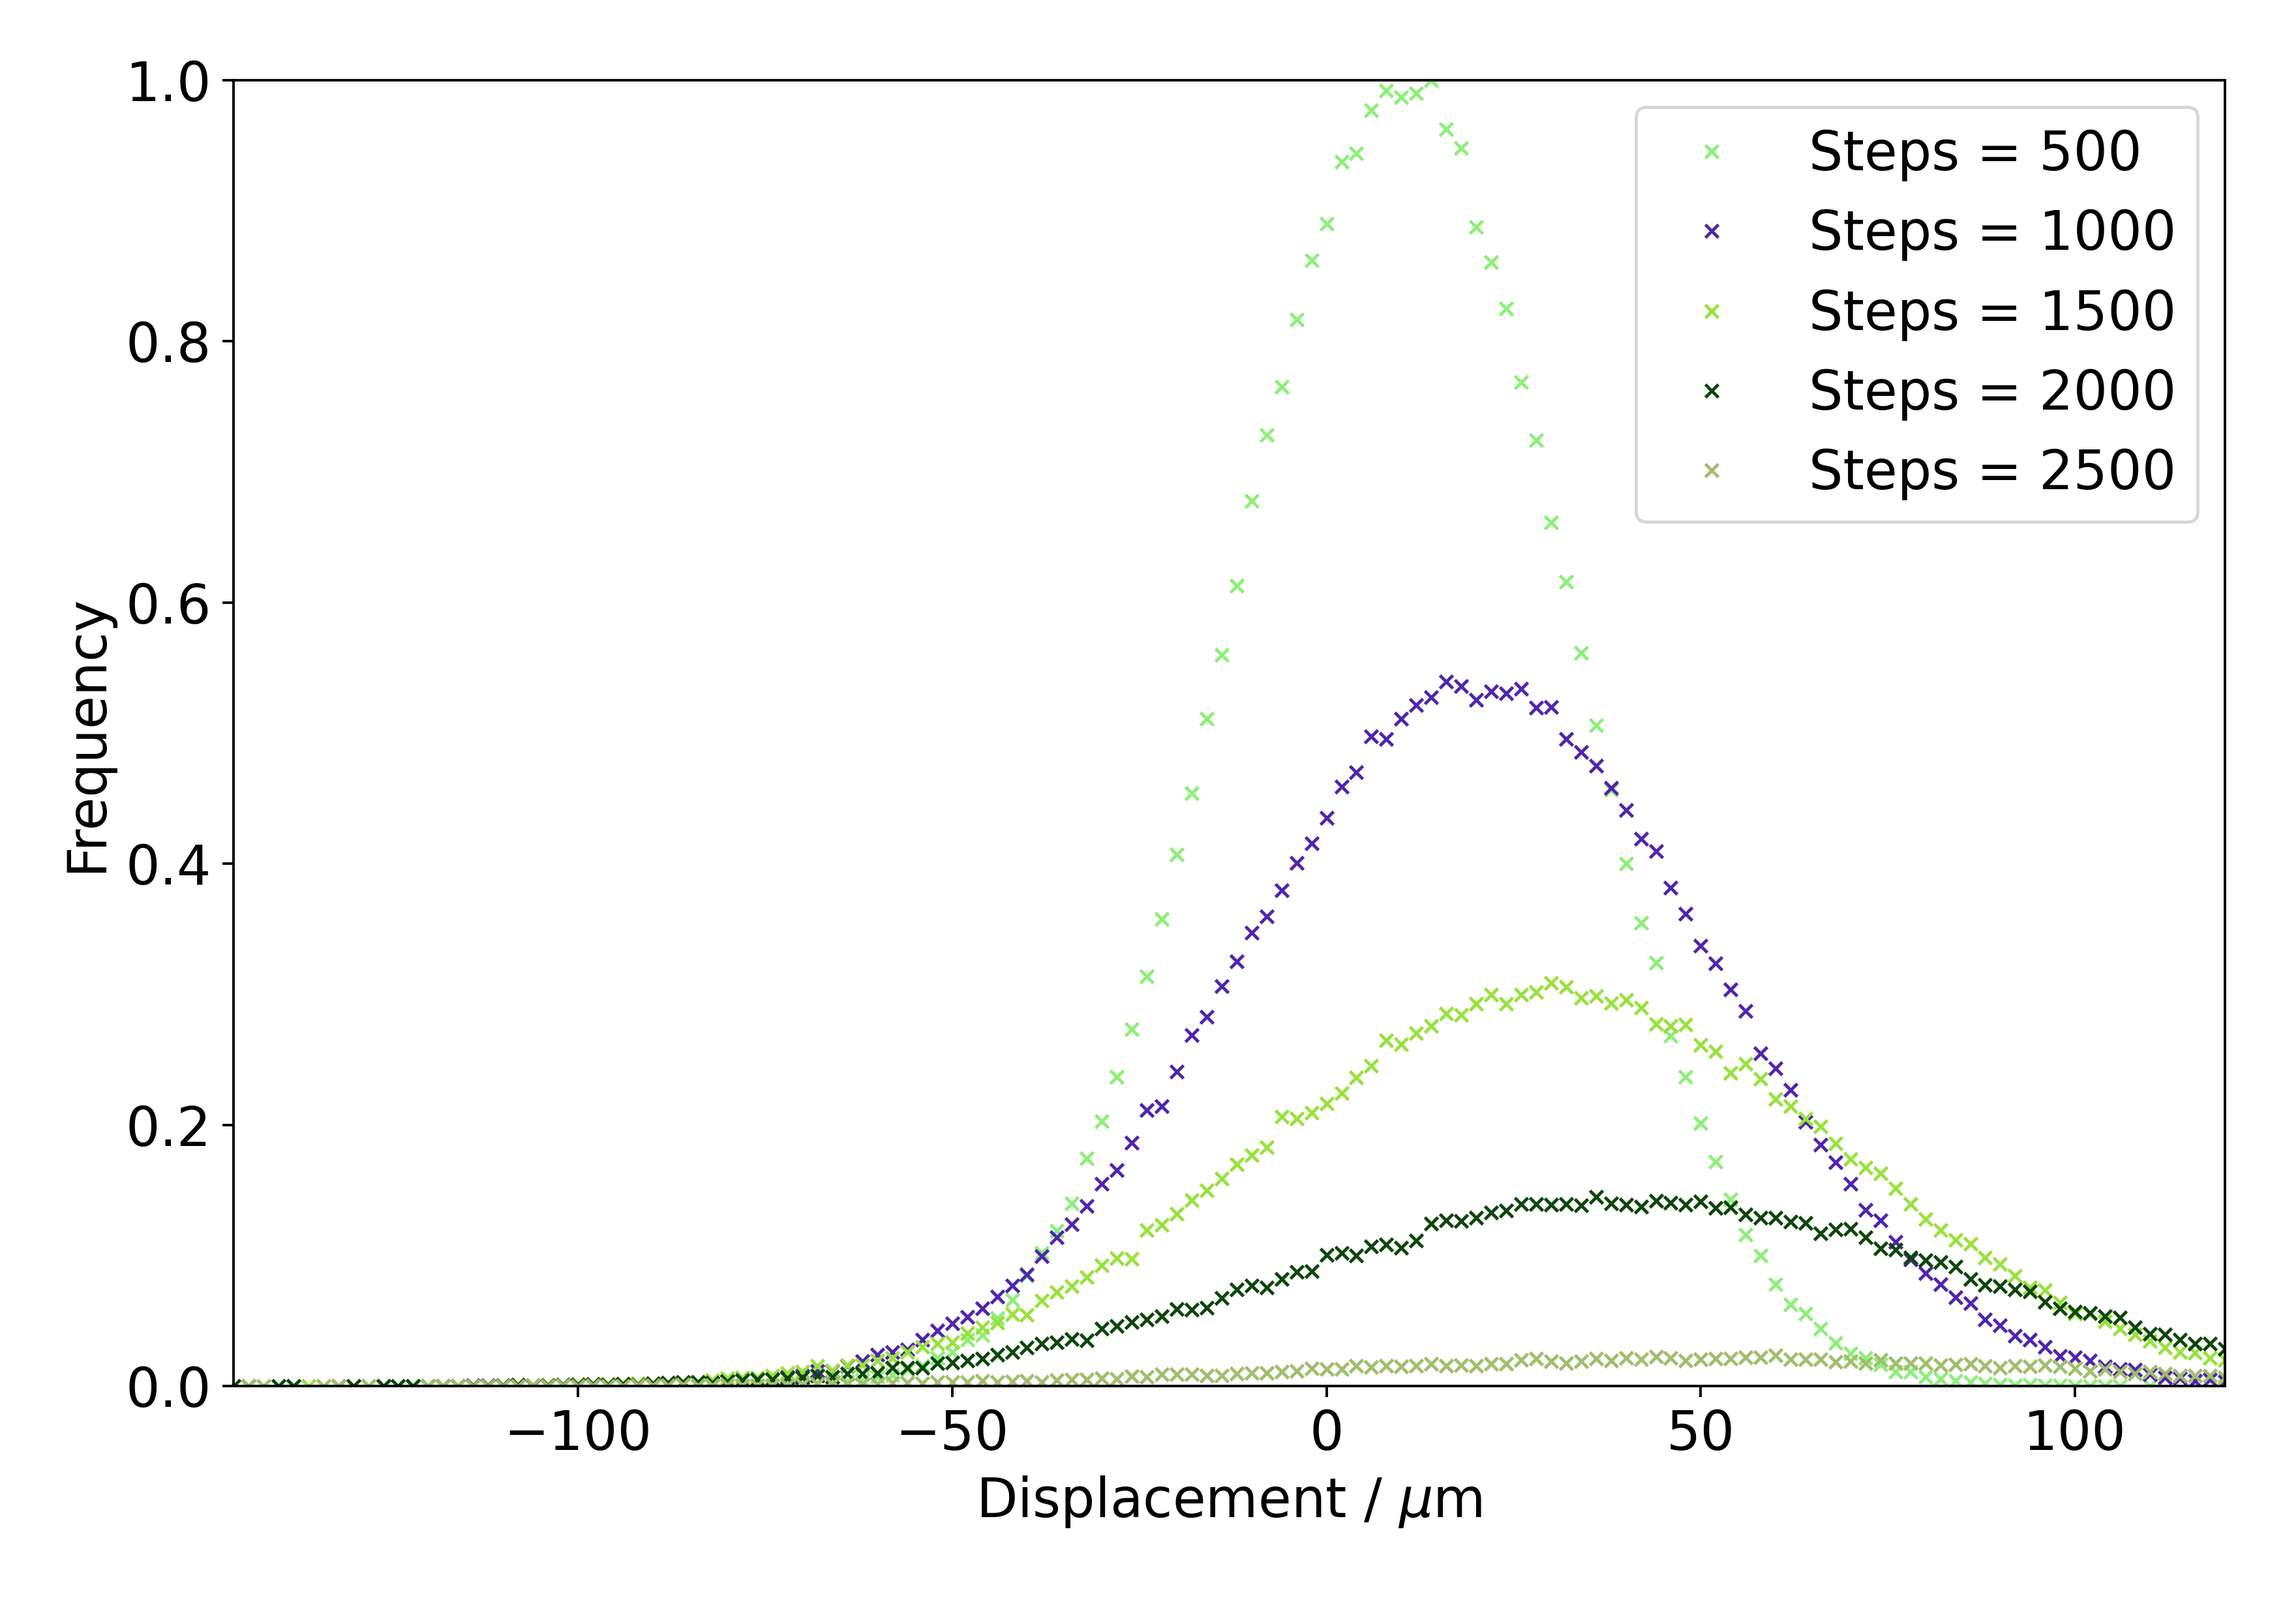
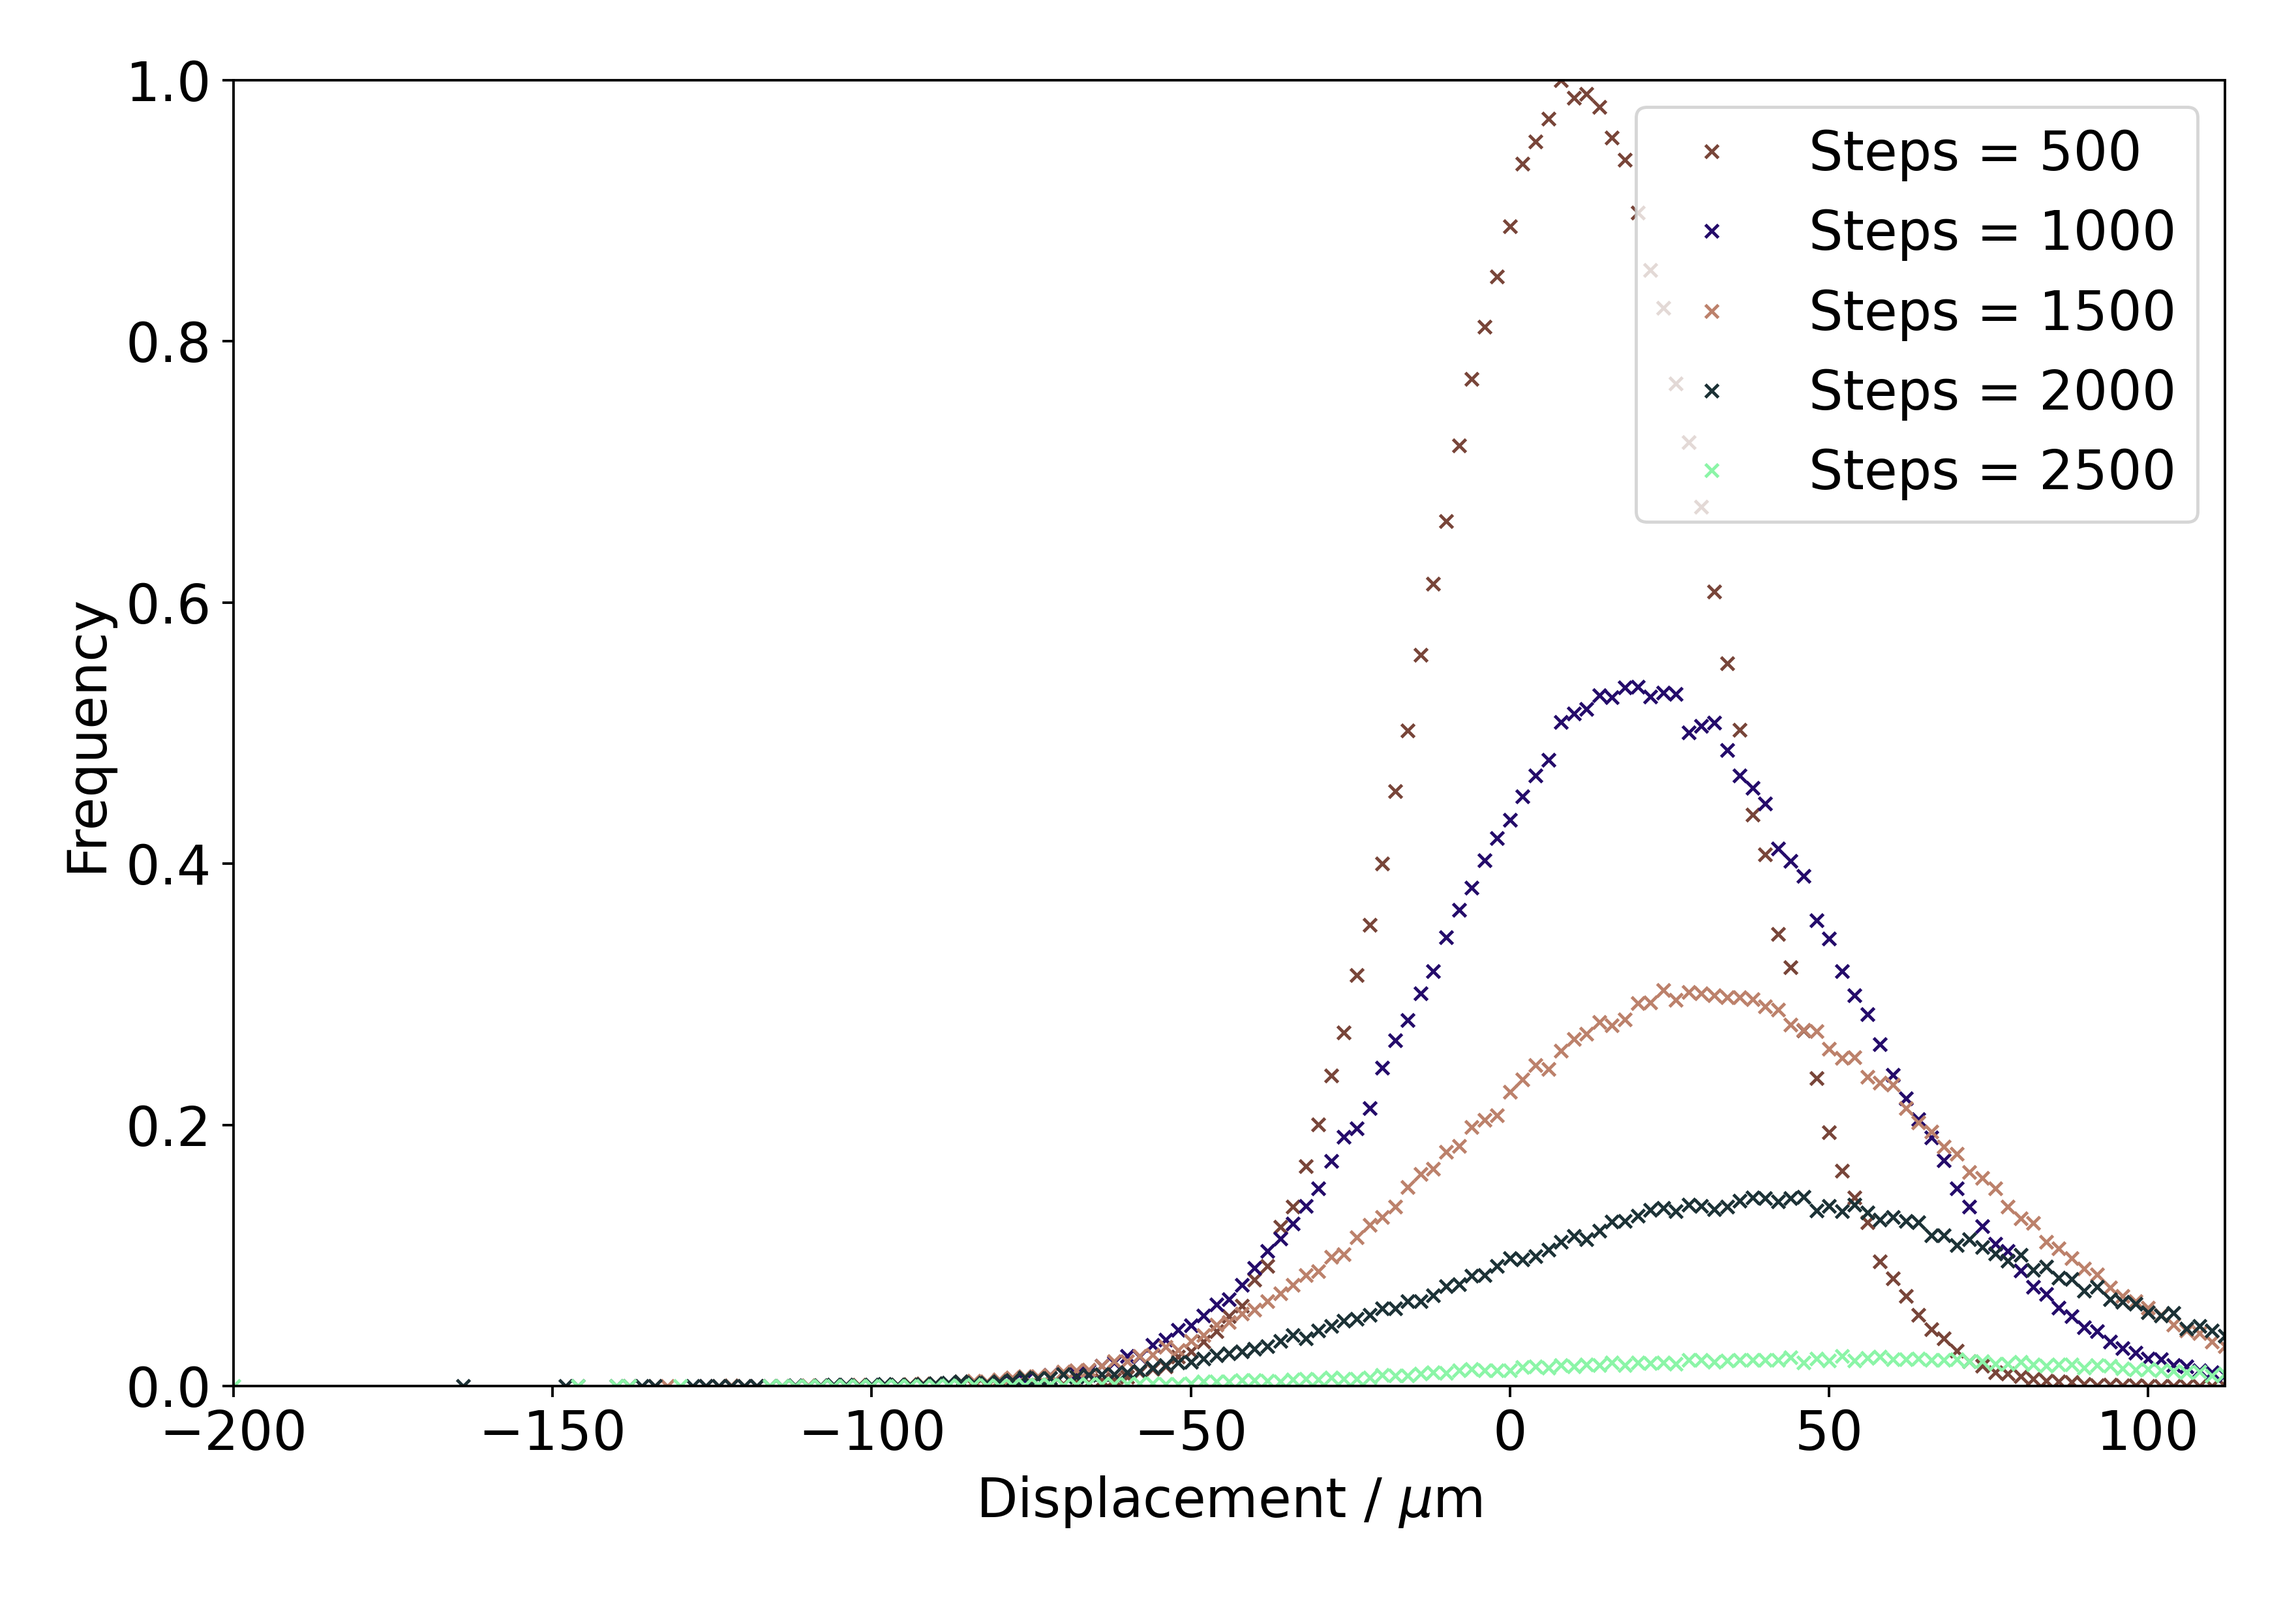
Add contrast to plots

diff --git a/src/brains.py b/src/brains.py
@@ -141,8 +141,7 @@ class Brains():
         dict1 = self.normalise_dict(self.random.random_walk(1000, 50))
         dict2 = self.normalise_dict([dict(zip(self.random.xlist, self.diffusion.diffusion_decay_1d(self.random.xlist, tval))) for tval in self.random.tlist])
         dict3 = self.normalise_dict([self.random.random_walk(i, 51, (i/2600)*100) for i in self.list_steps])
-        # dict3_integrals = [trapz(list(arg.values()), list(arg.keys())) for arg in dict3] # Integrals of the random walk graphs
-        # dict4 = dict(zip(self.list_steps, dict3_integrals))
+
 
         return dict1, dict2, dict3
 
@@ -158,7 +157,6 @@ class Brains():
         self.random.plot_graph(dict1, labels=["Random Walk"], best_fit="gaussian", best_fit_label=True)
         self.decay_static.plot_graph(*dict2, xlims=(-0.0025, 0.0025), ylims=(0, 1), marker="None", ls="-", zlist=self.random.tlist, zlabel="Time / s", colourbar=True)
         self.random_multiple.plot_graph(*dict3, labels=[f"Steps = {i}" for i in self.list_steps], ylims=(0, 1))
-        # self.area_vs_steps.plot_graph(dict4, marker="x", xlims=(0, 3000), ylims=(0, 100), labels=["Integral Area"], best_fit="linear")
         self.dopant_mobility.plot_graph(dict(zip(self.dopant_mobility.temp_list, self.dopant_mobility.mobility(self.dopant_mobility.temp_list))), xlims=(250, 400), ylims=(0, 2e3), marker="None", ls="-", labels=["Mobility"])
 
 

diff --git a/src/main.py b/src/main.py
@@ -2,12 +2,11 @@ from brains import Brains
 import time
 
 if __name__ == "__main__":
-    start_time = time.time()
 
     # Please allow up to 5 minutes for the program to run.
     brains = Brains()
+    start_time = time.time()
     brains.plot_colourmaps()
     brains.plot_graphs() 
     brains.plot_videos()
-
     print(f"--- Runtime: {time.time() - start_time} seconds ---")
